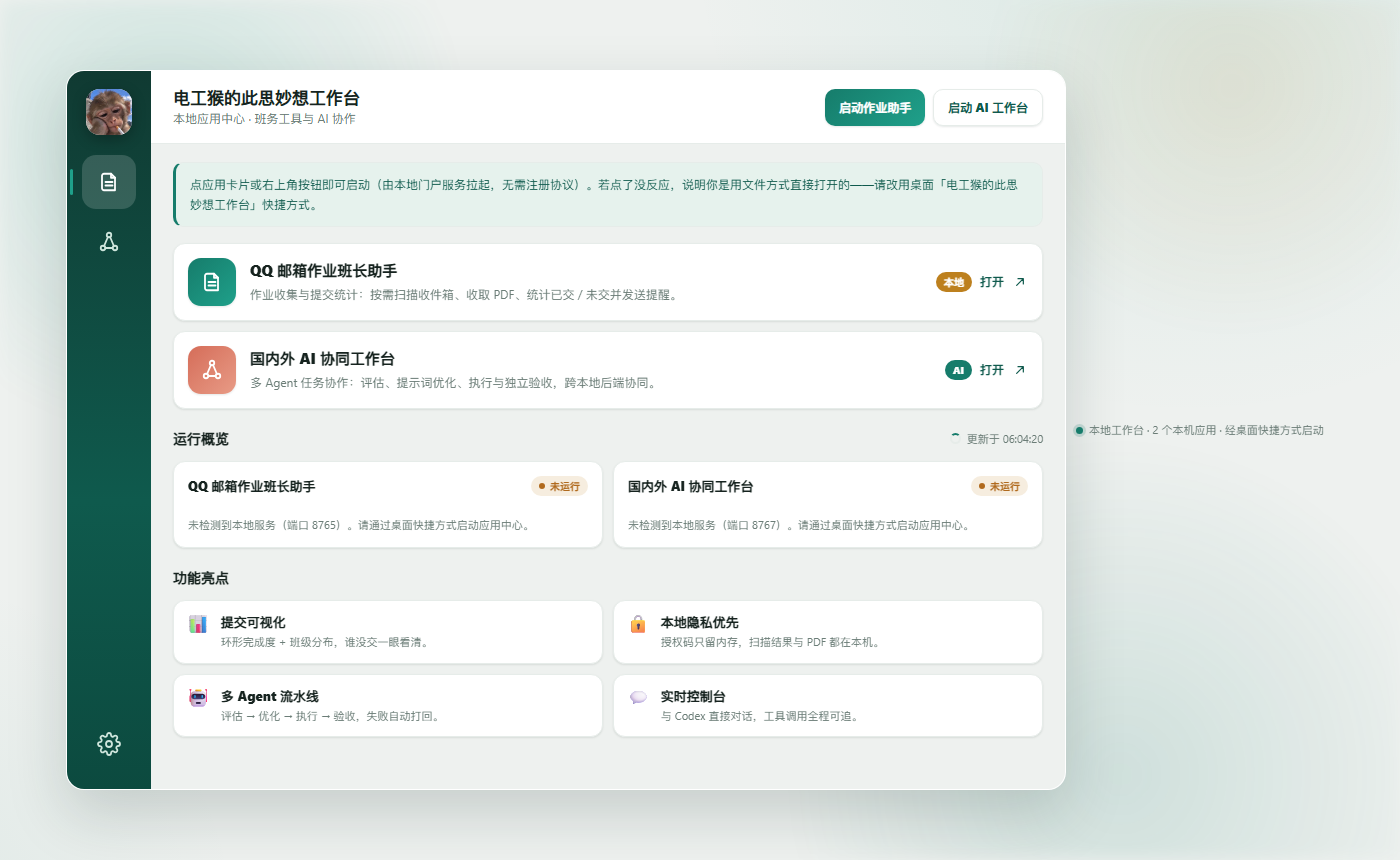
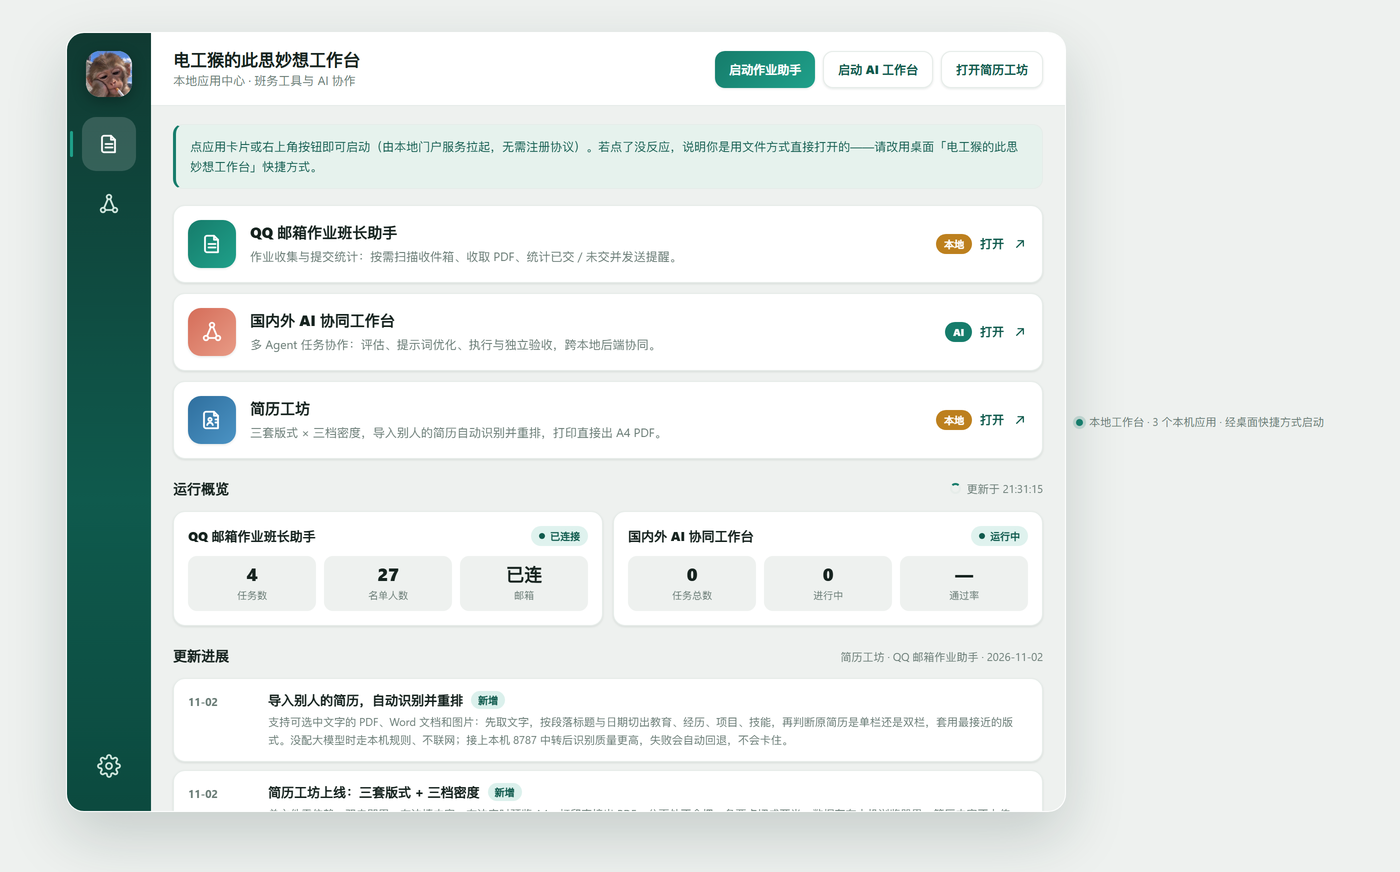
修复内容区无法滚动，更新预览图与三应用说明
- .win 的 grid 行高没约束，导致 .stage-body 的 overflow:auto 形同虚设：
  clientHeight 恒等于 scrollHeight，超出部分被 .win 的 overflow:hidden
  裁掉且用户滚不动。加 grid-template-rows: minmax(0, 1fr) 后恢复
  （实测可视 576 / 内容 1288 / 可滚 712）。加入第三张卡片后才暴露。
- 面板上限 720 → 780，三张卡片时首屏能完整看完一条「更新进展」。
- docs/portal.png 重按 2 倍缩放截取，含简历工坊卡片。
- 新增 docs/resume-forge.png，README 预览补上第三个应用。

diff --git a/电工猴的此思妙想工作台.html b/电工猴的此思妙想工作台.html
@@ -52,9 +52,13 @@
 
     .win {
       width: min(100%, 1000px);
-      height: min(86vh, 720px);
+      height: min(88vh, 780px);
       display: grid;
       grid-template-columns: 84px minmax(0, 1fr);
+      /* 行高必须显式收紧：否则唯一那行会被内容撑高，.stage-body 的
+         overflow:auto 无从生效（clientHeight == scrollHeight），
+         超出的部分被 .win 的 overflow:hidden 直接裁掉且无法滚动。 */
+      grid-template-rows: minmax(0, 1fr);
       background: var(--paper);
       border-radius: 18px;
       overflow: hidden;

diff --git a/README.md b/README.md
@@ -1,6 +1,6 @@
 # 电工猴的此思妙想工作台
 
-一个本地「应用中心」：把两个本机应用（国内外 AI 协同工作台、QQ 邮箱作业班长助手）收进一个悬浮窗口 / 门户页，点一下就能启动。
+一个本地「应用中心」：把三个本机应用（国内外 AI 协同工作台、QQ 邮箱作业班长助手、简历工坊）收进一个悬浮窗口 / 门户页，点一下就能启动。
 
 ## 界面预览
 
@@ -11,6 +11,10 @@
 QQ 邮箱作业班长助手：
 
 ![QQ 邮箱作业班长助手](docs/qq-assistant.png)
+
+简历工坊（由门户在 `/resume` 直接托管，不启动独立进程）：
+
+![简历工坊](docs/resume-forge.png)
 
 ## 组成
 
